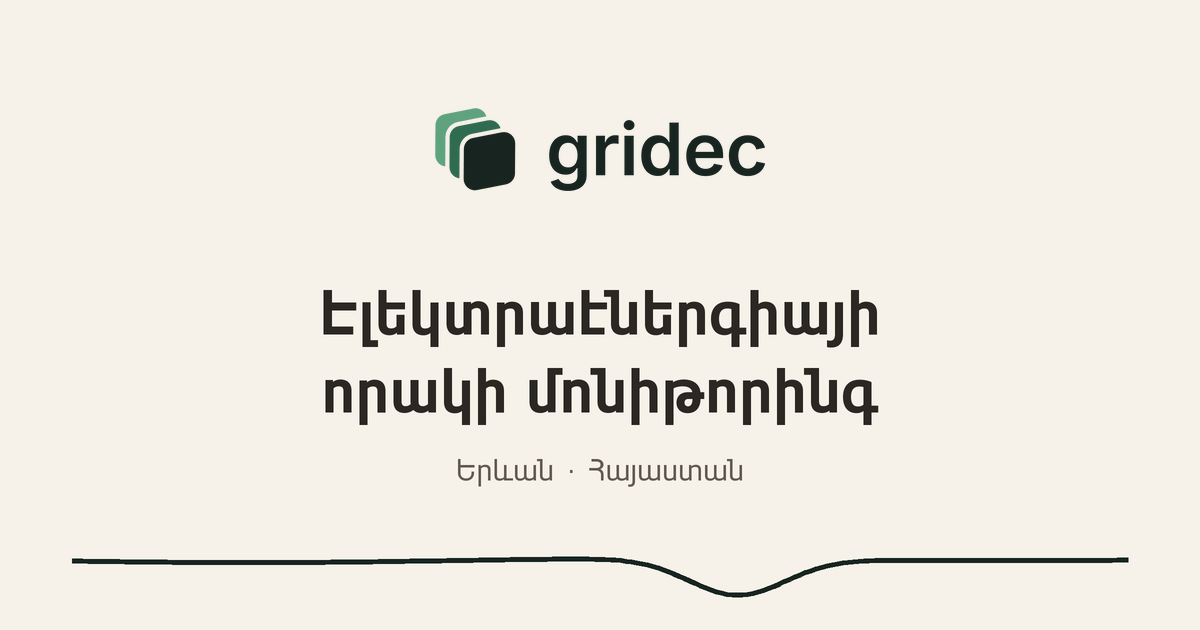
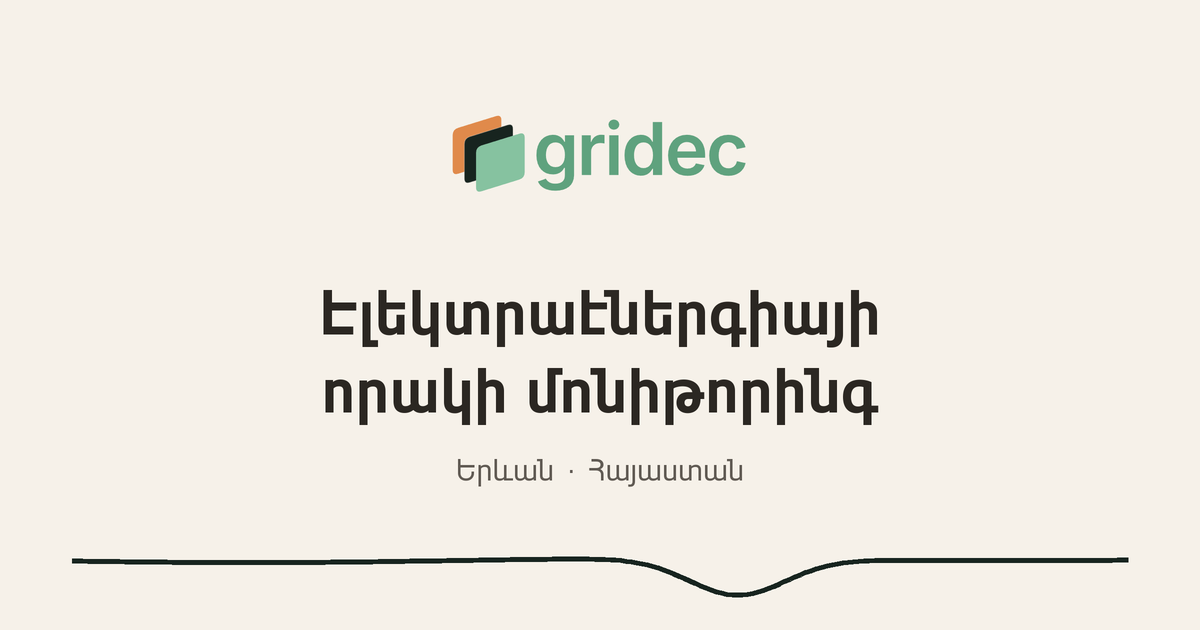
Логотип «alpha» владельца: три пластины медь / тёмно-зелёная / бледно-зелёная, слово «gridec» #5FA27E; фавиконки, og-карточки, PNG подписи (2026-11-17, владелец: «используй этот вариант», «Publish»). = сборка dev e33a8d9 (eeeb075 + e33a8d9). Откат: тег live-before-alphalogo (= 4619867).

Changed region(s): [[0.3392, 0.1508, 0.6475, 0.3016]]

diff --git a/hy/partners/index.html b/hy/partners/index.html
@@ -106,7 +106,7 @@ header a,header button,header nav,header .navr{pointer-events:auto;}
   width:100%;padding:0 clamp(14px,2.1vw,30px);}
 .brand{display:flex;align-items:center;gap:10px;
   --acc:var(--c-brand);flex:0 0 auto;transition:color .5s var(--e);}
-.brand .wm{display:block;flex:0 0 auto;height:37px;width:auto;margin:0 0 0 -8px;}   
+.brand .wm{display:block;flex:0 0 auto;height:37px;width:auto;margin:0 0 0 -6px;}   
 .brand .lg-d{display:none;}
 header.on-dark .brand .lg-l{display:none;}
 header.on-dark .brand .lg-d{display:block;}
@@ -812,7 +812,7 @@ footer,.footrev{--foot-h:530px;}
   box-shadow:inset 0 1px 0 var(--line-d);}
 footer .fgrid{display:grid;grid-template-columns:minmax(220px,1fr) minmax(0,1.15fr) minmax(0,.85fr);
   gap:clamp(28px,4vw,var(--s8));align-items:start;}
-footer .fbrand .flg{display:block;height:44px;width:auto;margin:0 0 22px -10px;}
+footer .fbrand .flg{display:block;height:44px;width:auto;margin:0 0 22px -7px;}
 footer .fbrand .freg{margin-top:14px;text-transform:none;letter-spacing:.04em;white-space:nowrap;
   max-width:none;color:var(--c-paper-a72);}
 footer .fbrand .freg .fsep{opacity:.5;margin:0 10px;}
@@ -1292,7 +1292,7 @@ html[data-nav="5"] #hdr .btn{white-space:nowrap;}
 <div id="wipe"><canvas aria-hidden="true"></canvas></div>
 <div class="rake" aria-hidden="true"></div>
 <header id="hdr" data-tone="paper"><div class="hin">
-  <a class="brand" href="/hy/" aria-label="Gridec"><img class="wm lg-l" src="/brand/gridec-logo-light-s.svg" alt="Gridec" width="325" height="92" decoding="async"><img class="wm lg-d" src="/brand/gridec-logo-dark.svg" alt="" width="325" height="92" decoding="async" aria-hidden="true"></a>
+  <a class="brand" href="/hy/" aria-label="Gridec"><img class="wm lg-l" src="/brand/gridec-logo-light-s.svg" alt="Gridec" width="684" height="204" decoding="async"><img class="wm lg-d" src="/brand/gridec-logo-dark.svg" alt="" width="684" height="204" decoding="async" aria-hidden="true"></a>
   
   <nav><a class="lk" href="/hy/#applications">Ոլորտներ</a><a class="lk" href="/hy/#services">Ծառայություններ</a><a class="lk" href="/hy/#company">Ընկերություն</a><a class="lk" href="/hy/partners/" aria-current="page">Գործընկերների համար</a></nav>
   <div class="navr">
@@ -1360,7 +1360,7 @@ html[data-nav="5"] #hdr .btn{white-space:nowrap;}
 <footer>
   <div class="wrap fgrid">
     <div class="fbrand rv">
-      <img class="flg" src="/brand/gridec-logo-dark.svg" alt="Gridec" width="325" height="92" loading="lazy" decoding="async">
+      <img class="flg" src="/brand/gridec-logo-dark.svg" alt="Gridec" width="684" height="204" loading="lazy" decoding="async">
       <p>Էլեկտրաէներգիայի որակի մոնիթորինգ</p>
       <p class="freg">Գրիդեկ ՍՊԸ<span class="fsep">·</span>ՀՎՀՀ <b>08331059</b></p>
     </div>

diff --git a/hy/index.html b/hy/index.html
@@ -106,7 +106,7 @@ header a,header button,header nav,header .navr{pointer-events:auto;}
   width:100%;padding:0 clamp(14px,2.1vw,30px);}
 .brand{display:flex;align-items:center;gap:10px;
   --acc:var(--c-brand);flex:0 0 auto;transition:color .5s var(--e);}
-.brand .wm{display:block;flex:0 0 auto;height:37px;width:auto;margin:0 0 0 -8px;}   
+.brand .wm{display:block;flex:0 0 auto;height:37px;width:auto;margin:0 0 0 -6px;}   
 .brand .lg-d{display:none;}
 header.on-dark .brand .lg-l{display:none;}
 header.on-dark .brand .lg-d{display:block;}
@@ -812,7 +812,7 @@ footer,.footrev{--foot-h:530px;}
   box-shadow:inset 0 1px 0 var(--line-d);}
 footer .fgrid{display:grid;grid-template-columns:minmax(220px,1fr) minmax(0,1.15fr) minmax(0,.85fr);
   gap:clamp(28px,4vw,var(--s8));align-items:start;}
-footer .fbrand .flg{display:block;height:44px;width:auto;margin:0 0 22px -10px;}
+footer .fbrand .flg{display:block;height:44px;width:auto;margin:0 0 22px -7px;}
 footer .fbrand .freg{margin-top:14px;text-transform:none;letter-spacing:.04em;white-space:nowrap;
   max-width:none;color:var(--c-paper-a72);}
 footer .fbrand .freg .fsep{opacity:.5;margin:0 10px;}
@@ -1292,7 +1292,7 @@ html[data-nav="5"] #hdr .btn{white-space:nowrap;}
 <div id="wipe"><canvas aria-hidden="true"></canvas></div>
 <div class="rake" aria-hidden="true"></div>
 <header id="hdr" data-tone="paper"><div class="hin">
-  <a class="brand" href="#top" aria-label="Gridec"><img class="wm lg-l" src="/brand/gridec-logo-light-s.svg" alt="Gridec" width="325" height="92" decoding="async"><img class="wm lg-d" src="/brand/gridec-logo-dark.svg" alt="" width="325" height="92" decoding="async" aria-hidden="true"></a>
+  <a class="brand" href="#top" aria-label="Gridec"><img class="wm lg-l" src="/brand/gridec-logo-light-s.svg" alt="Gridec" width="684" height="204" decoding="async"><img class="wm lg-d" src="/brand/gridec-logo-dark.svg" alt="" width="684" height="204" decoding="async" aria-hidden="true"></a>
   
   <nav><a class="lk" href="#applications">Ոլորտներ</a><a class="lk" href="#services">Ծառայություններ</a><a class="lk" href="#company">Ընկերություն</a><a class="lk" href="/hy/partners/">Գործընկերների համար</a></nav>
   <div class="navr">
@@ -1455,7 +1455,7 @@ html[data-nav="5"] #hdr .btn{white-space:nowrap;}
 <footer>
   <div class="wrap fgrid">
     <div class="fbrand rv">
-      <img class="flg" src="/brand/gridec-logo-dark.svg" alt="Gridec" width="325" height="92" loading="lazy" decoding="async">
+      <img class="flg" src="/brand/gridec-logo-dark.svg" alt="Gridec" width="684" height="204" loading="lazy" decoding="async">
       <p>Էլեկտրաէներգիայի որակի մոնիթորինգ</p>
       <p class="freg">Գրիդեկ ՍՊԸ<span class="fsep">·</span>ՀՎՀՀ <b>08331059</b></p>
     </div>

diff --git a/partners/index.html b/partners/index.html
@@ -102,7 +102,7 @@ header a,header button,header nav,header .navr{pointer-events:auto;}
   width:100%;padding:0 clamp(14px,2.1vw,30px);}
 .brand{display:flex;align-items:center;gap:10px;
   --acc:var(--c-brand);flex:0 0 auto;transition:color .5s var(--e);}
-.brand .wm{display:block;flex:0 0 auto;height:37px;width:auto;margin:0 0 0 -8px;}   
+.brand .wm{display:block;flex:0 0 auto;height:37px;width:auto;margin:0 0 0 -6px;}   
 .brand .lg-d{display:none;}
 header.on-dark .brand .lg-l{display:none;}
 header.on-dark .brand .lg-d{display:block;}
@@ -808,7 +808,7 @@ footer,.footrev{--foot-h:530px;}
   box-shadow:inset 0 1px 0 var(--line-d);}
 footer .fgrid{display:grid;grid-template-columns:minmax(220px,1fr) minmax(0,1.15fr) minmax(0,.85fr);
   gap:clamp(28px,4vw,var(--s8));align-items:start;}
-footer .fbrand .flg{display:block;height:44px;width:auto;margin:0 0 22px -10px;}
+footer .fbrand .flg{display:block;height:44px;width:auto;margin:0 0 22px -7px;}
 footer .fbrand .freg{margin-top:14px;text-transform:none;letter-spacing:.04em;white-space:nowrap;
   max-width:none;color:var(--c-paper-a72);}
 footer .fbrand .freg .fsep{opacity:.5;margin:0 10px;}
@@ -1292,7 +1292,7 @@ html[data-nav="5"] #hdr .btn{white-space:nowrap;}
 <div id="wipe"><canvas aria-hidden="true"></canvas></div>
 <div class="rake" aria-hidden="true"></div>
 <header id="hdr" data-tone="paper"><div class="hin">
-  <a class="brand" href="/" aria-label="Gridec"><img class="wm lg-l" src="/brand/gridec-logo-light-s.svg" alt="Gridec" width="325" height="92" decoding="async"><img class="wm lg-d" src="/brand/gridec-logo-dark.svg" alt="" width="325" height="92" decoding="async" aria-hidden="true"></a>
+  <a class="brand" href="/" aria-label="Gridec"><img class="wm lg-l" src="/brand/gridec-logo-light-s.svg" alt="Gridec" width="684" height="204" decoding="async"><img class="wm lg-d" src="/brand/gridec-logo-dark.svg" alt="" width="684" height="204" decoding="async" aria-hidden="true"></a>
   
   <nav><a class="lk" href="/#applications">Industries</a><a class="lk" href="/#services">Services</a><a class="lk" href="/#company">Company</a><a class="lk" href="/partners/" aria-current="page">For Partners</a></nav>
   <div class="navr">
@@ -1360,7 +1360,7 @@ html[data-nav="5"] #hdr .btn{white-space:nowrap;}
 <footer>
   <div class="wrap fgrid">
     <div class="fbrand rv">
-      <img class="flg" src="/brand/gridec-logo-dark.svg" alt="Gridec" width="325" height="92" loading="lazy" decoding="async">
+      <img class="flg" src="/brand/gridec-logo-dark.svg" alt="Gridec" width="684" height="204" loading="lazy" decoding="async">
       <p>POWER QUALITY MONITORING</p>
       <p class="freg">Gridec LLC<span class="fsep">·</span>TIN <b>08331059</b></p>
     </div>

diff --git a/index.html b/index.html
@@ -102,7 +102,7 @@ header a,header button,header nav,header .navr{pointer-events:auto;}
   width:100%;padding:0 clamp(14px,2.1vw,30px);}
 .brand{display:flex;align-items:center;gap:10px;
   --acc:var(--c-brand);flex:0 0 auto;transition:color .5s var(--e);}
-.brand .wm{display:block;flex:0 0 auto;height:37px;width:auto;margin:0 0 0 -8px;}   
+.brand .wm{display:block;flex:0 0 auto;height:37px;width:auto;margin:0 0 0 -6px;}   
 .brand .lg-d{display:none;}
 header.on-dark .brand .lg-l{display:none;}
 header.on-dark .brand .lg-d{display:block;}
@@ -808,7 +808,7 @@ footer,.footrev{--foot-h:530px;}
   box-shadow:inset 0 1px 0 var(--line-d);}
 footer .fgrid{display:grid;grid-template-columns:minmax(220px,1fr) minmax(0,1.15fr) minmax(0,.85fr);
   gap:clamp(28px,4vw,var(--s8));align-items:start;}
-footer .fbrand .flg{display:block;height:44px;width:auto;margin:0 0 22px -10px;}
+footer .fbrand .flg{display:block;height:44px;width:auto;margin:0 0 22px -7px;}
 footer .fbrand .freg{margin-top:14px;text-transform:none;letter-spacing:.04em;white-space:nowrap;
   max-width:none;color:var(--c-paper-a72);}
 footer .fbrand .freg .fsep{opacity:.5;margin:0 10px;}
@@ -1292,7 +1292,7 @@ html[data-nav="5"] #hdr .btn{white-space:nowrap;}
 <div id="wipe"><canvas aria-hidden="true"></canvas></div>
 <div class="rake" aria-hidden="true"></div>
 <header id="hdr" data-tone="paper"><div class="hin">
-  <a class="brand" href="#top" aria-label="Gridec"><img class="wm lg-l" src="/brand/gridec-logo-light-s.svg" alt="Gridec" width="325" height="92" decoding="async"><img class="wm lg-d" src="/brand/gridec-logo-dark.svg" alt="" width="325" height="92" decoding="async" aria-hidden="true"></a>
+  <a class="brand" href="#top" aria-label="Gridec"><img class="wm lg-l" src="/brand/gridec-logo-light-s.svg" alt="Gridec" width="684" height="204" decoding="async"><img class="wm lg-d" src="/brand/gridec-logo-dark.svg" alt="" width="684" height="204" decoding="async" aria-hidden="true"></a>
   
   <nav><a class="lk" href="#applications">Industries</a><a class="lk" href="#services">Services</a><a class="lk" href="#company">Company</a><a class="lk" href="/partners/">For Partners</a></nav>
   <div class="navr">
@@ -1455,7 +1455,7 @@ html[data-nav="5"] #hdr .btn{white-space:nowrap;}
 <footer>
   <div class="wrap fgrid">
     <div class="fbrand rv">
-      <img class="flg" src="/brand/gridec-logo-dark.svg" alt="Gridec" width="325" height="92" loading="lazy" decoding="async">
+      <img class="flg" src="/brand/gridec-logo-dark.svg" alt="Gridec" width="684" height="204" loading="lazy" decoding="async">
       <p>POWER QUALITY MONITORING</p>
       <p class="freg">Gridec LLC<span class="fsep">·</span>TIN <b>08331059</b></p>
     </div>
